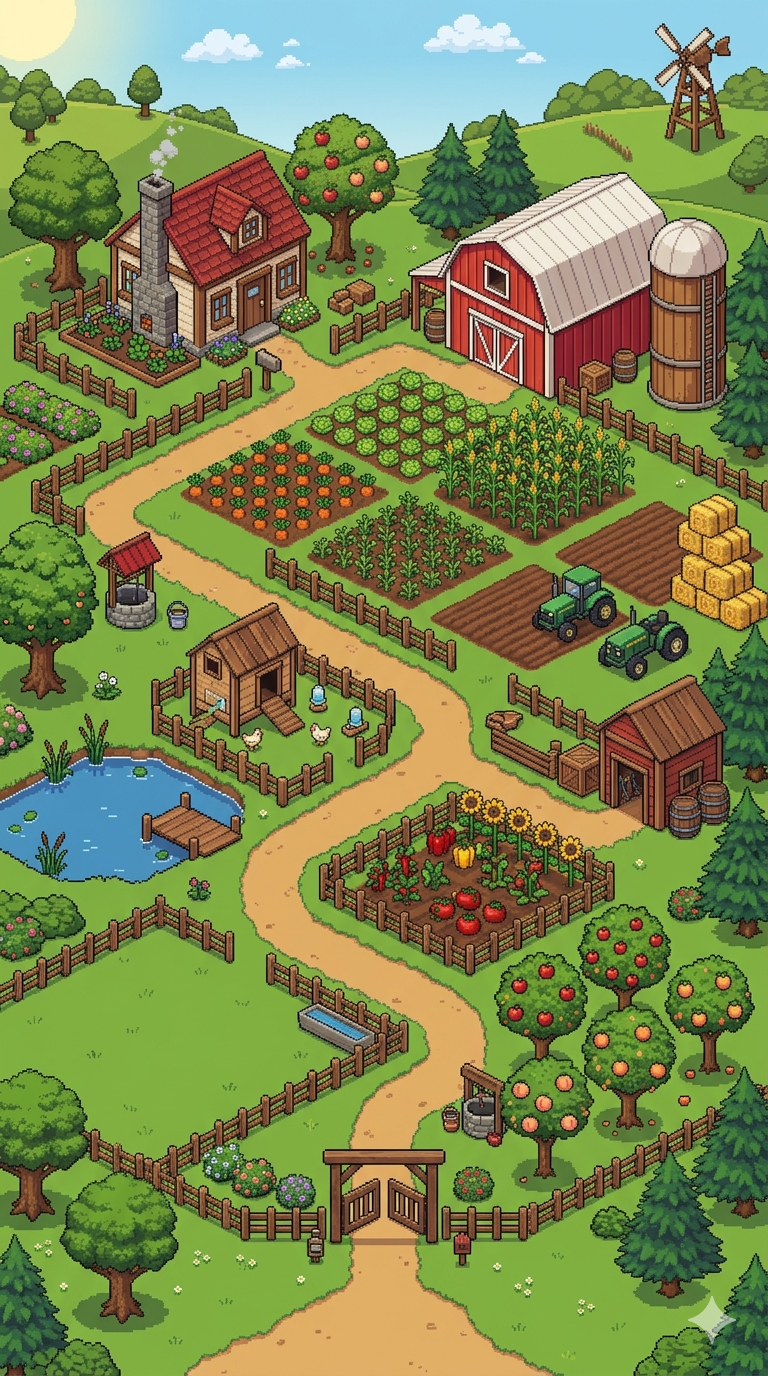
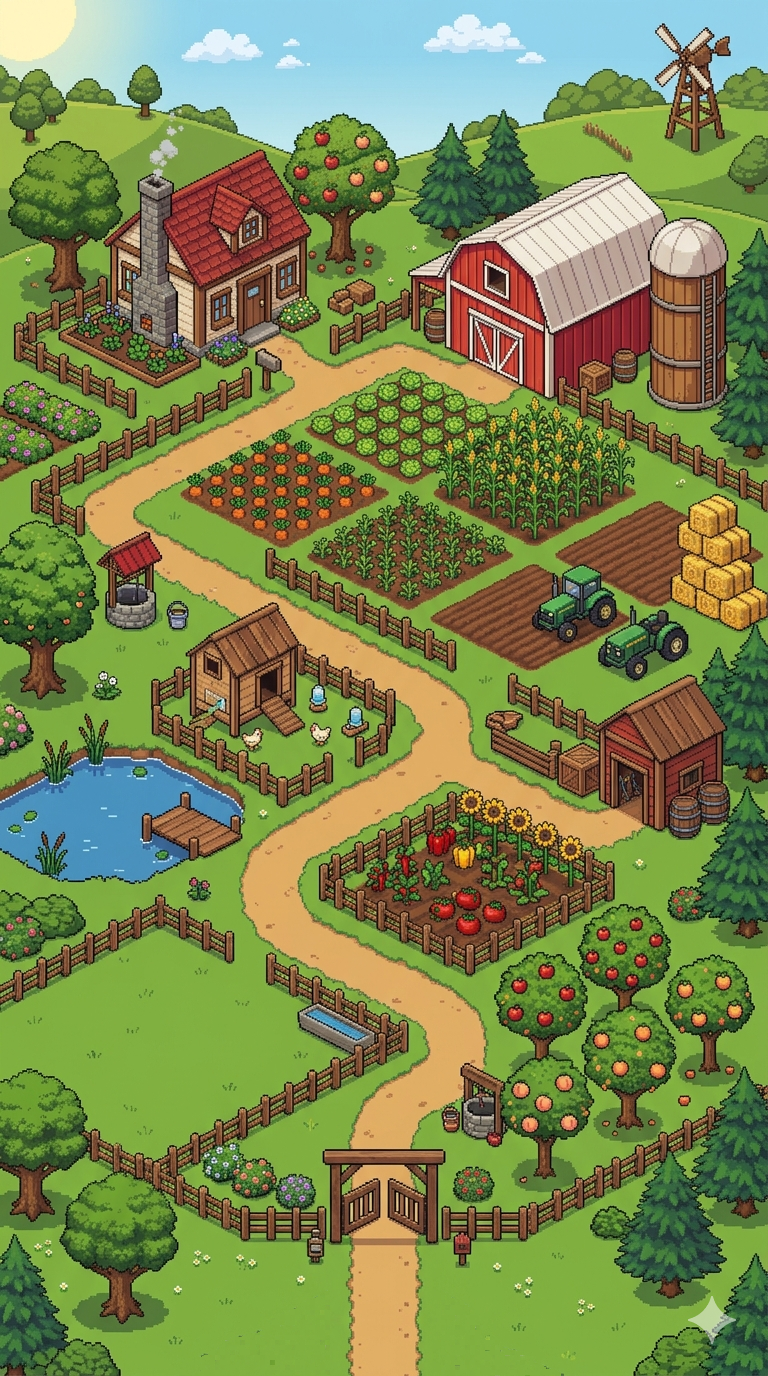
Narrow the farm road below the gate to a single path
The road off the farm opened out wide below the gate; it now runs straight
down from the gate as wide as it is there, grass either side. The walk mask
is rebuilt from the map, and the stand by the big pine moved onto the path.

Claude-Session: https://claude.ai/code/session_01Xs9NscFPBiiq7Wt9BYvNEH

Changed region(s): [[0.25, 0.9375, 0.4688, 1.0], [0.5312, 0.9375, 0.7188, 1.0]]

diff --git a/src/walkMask.js b/src/walkMask.js
@@ -3,4 +3,4 @@
 export const CELL = 4;
 export const COLS = 192;
 export const ROWS = 344;
[2 lines of base64/hex data omitted]

diff --git a/src/buildings.js b/src/buildings.js
@@ -43,7 +43,7 @@ export const SPOTS = [
   { view: 'apple', area: { x: 305, y: 105, w: 90, h: 160 }, stand: { x: 286, y: 322 }, face: 'up' },     // big apple tree by the farmhouse
   { view: 'apple', area: { x: 495, y: 950, w: 85, h: 100 }, stand: { x: 482, y: 1050 }, face: 'right' }, // orchard apple trees
   { view: 'apple', area: { x: 580, y: 905, w: 90, h: 95 }, stand: { x: 482, y: 1026 }, face: 'right' },
-  { view: 'pine', area: { x: 612, y: 1145, w: 116, h: 150 }, stand: { x: 456, y: 1318 }, face: 'right' }, // the big pine, bottom right
+  { view: 'pine', area: { x: 612, y: 1145, w: 116, h: 150 }, stand: { x: 410, y: 1318 }, face: 'right' }, // the big pine, bottom right
 ];
 
 export function inRect(x, y, r) {
